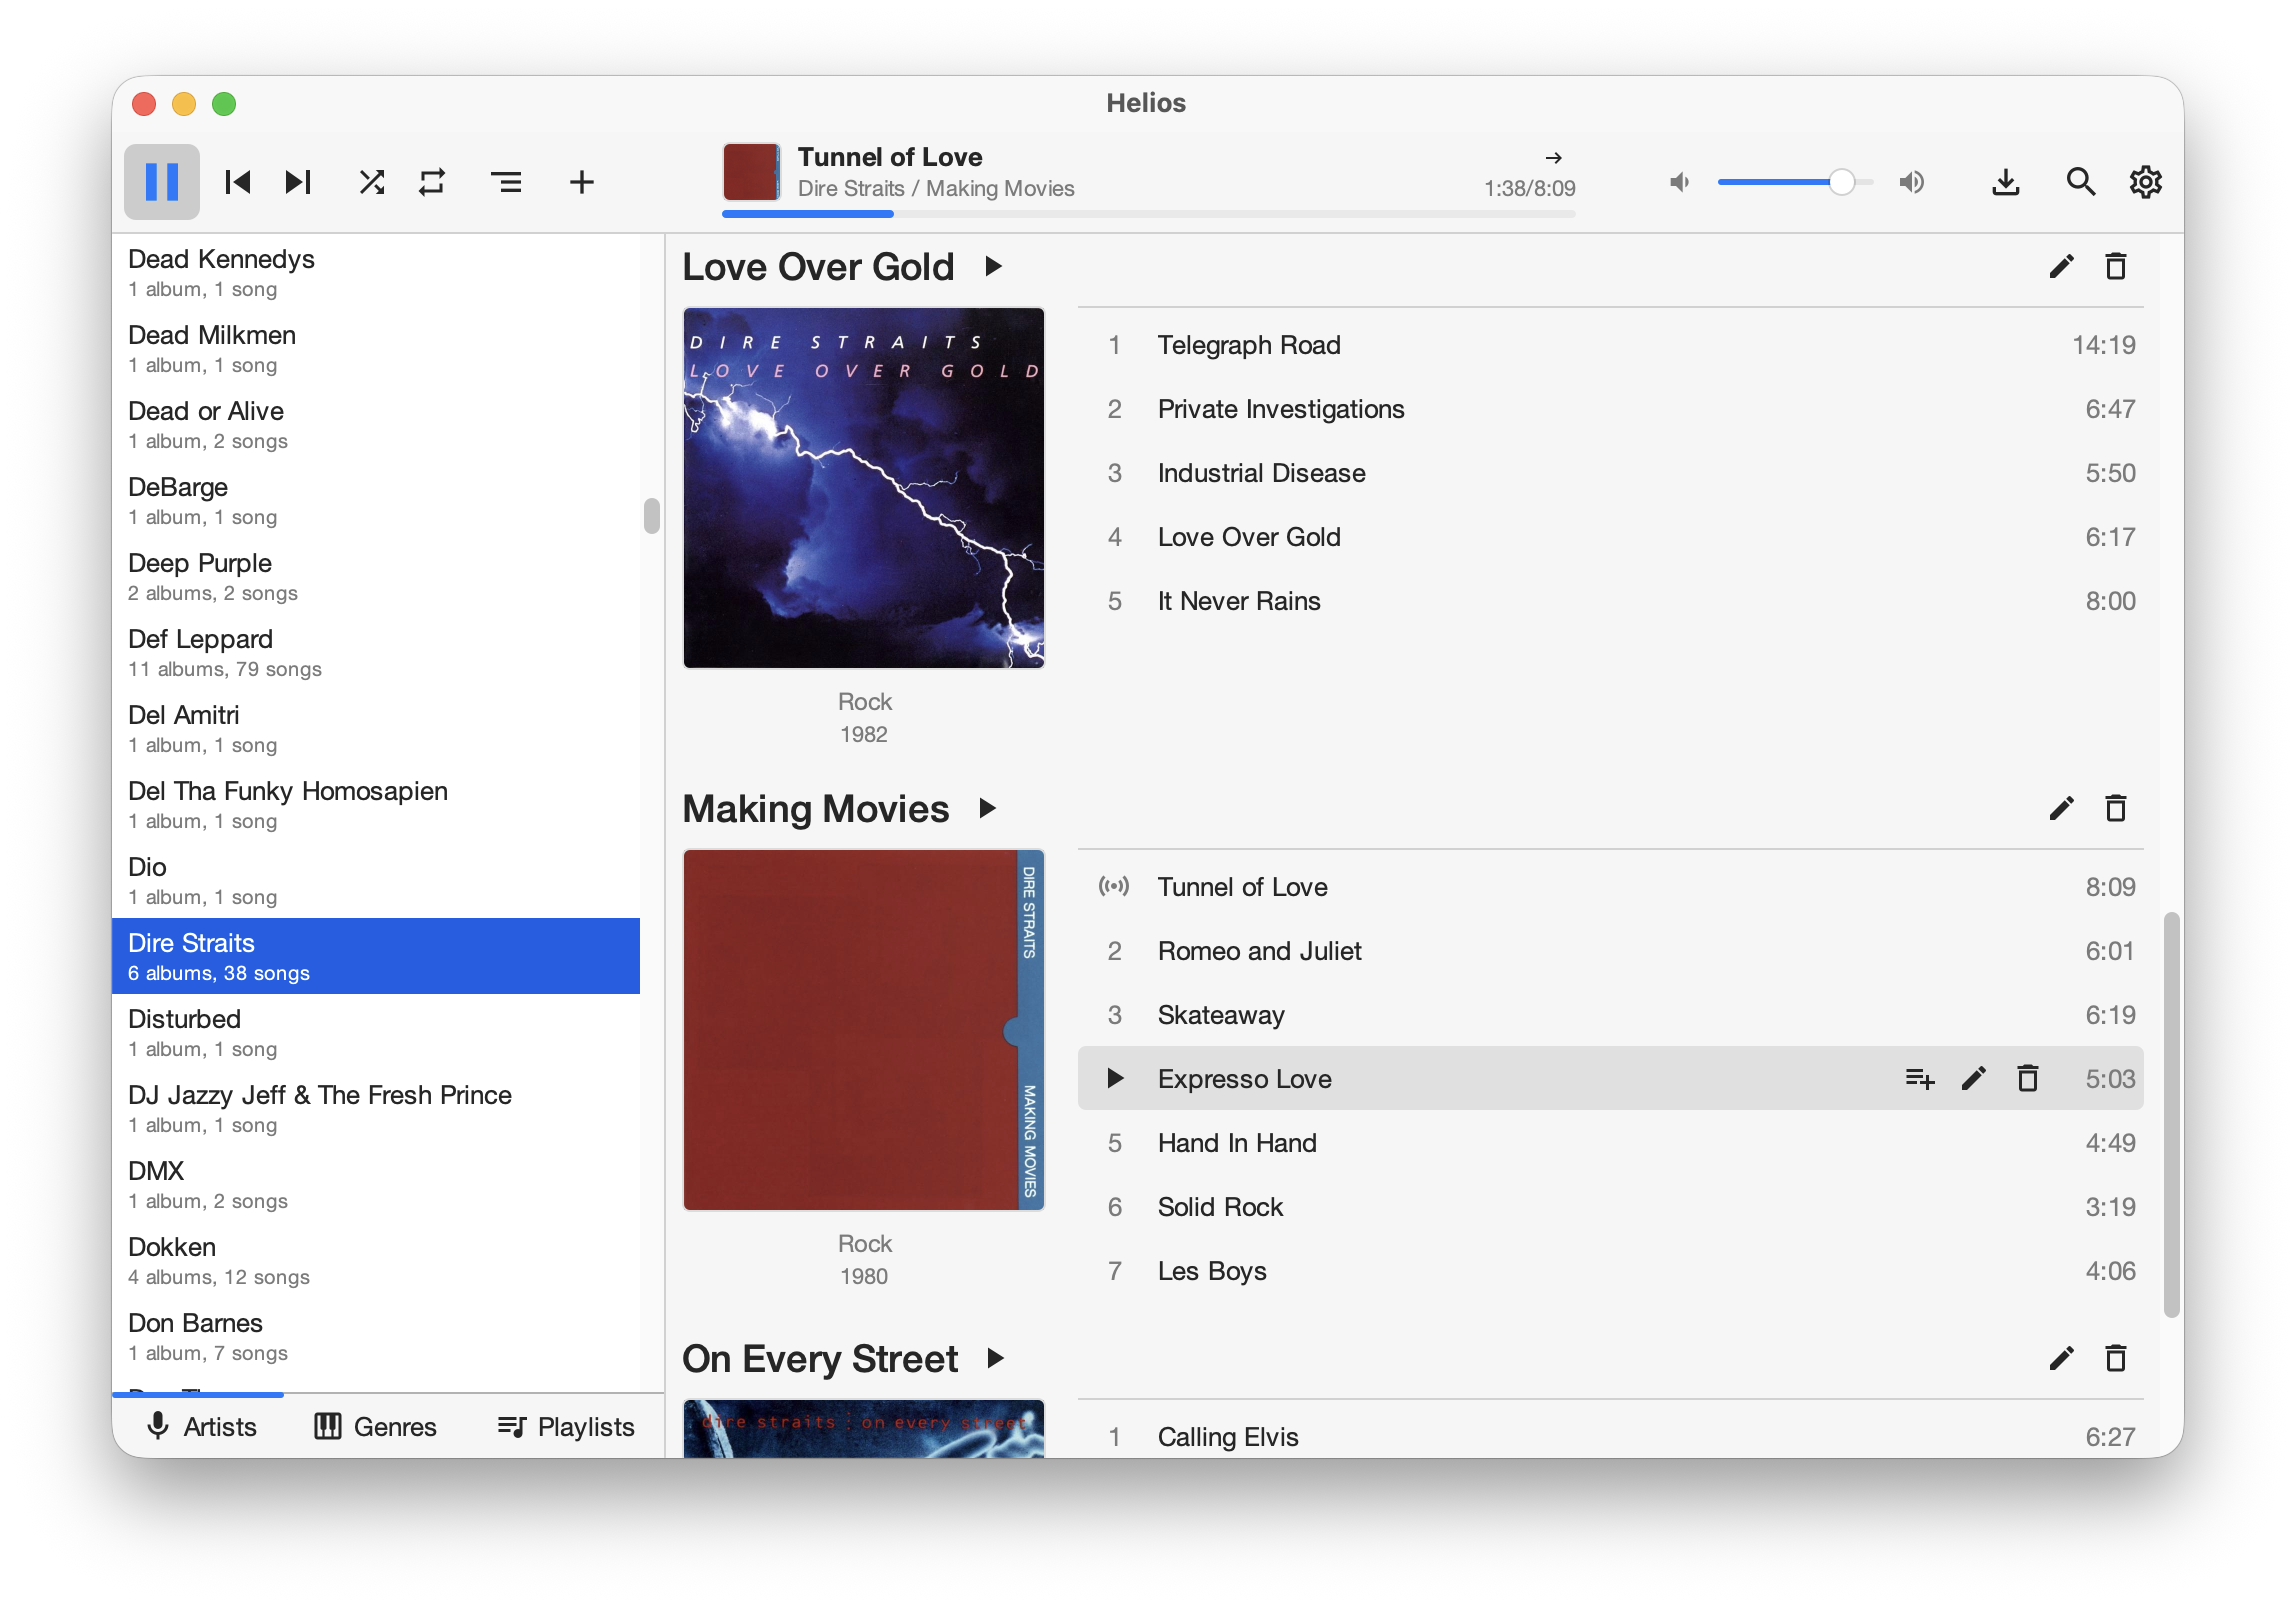
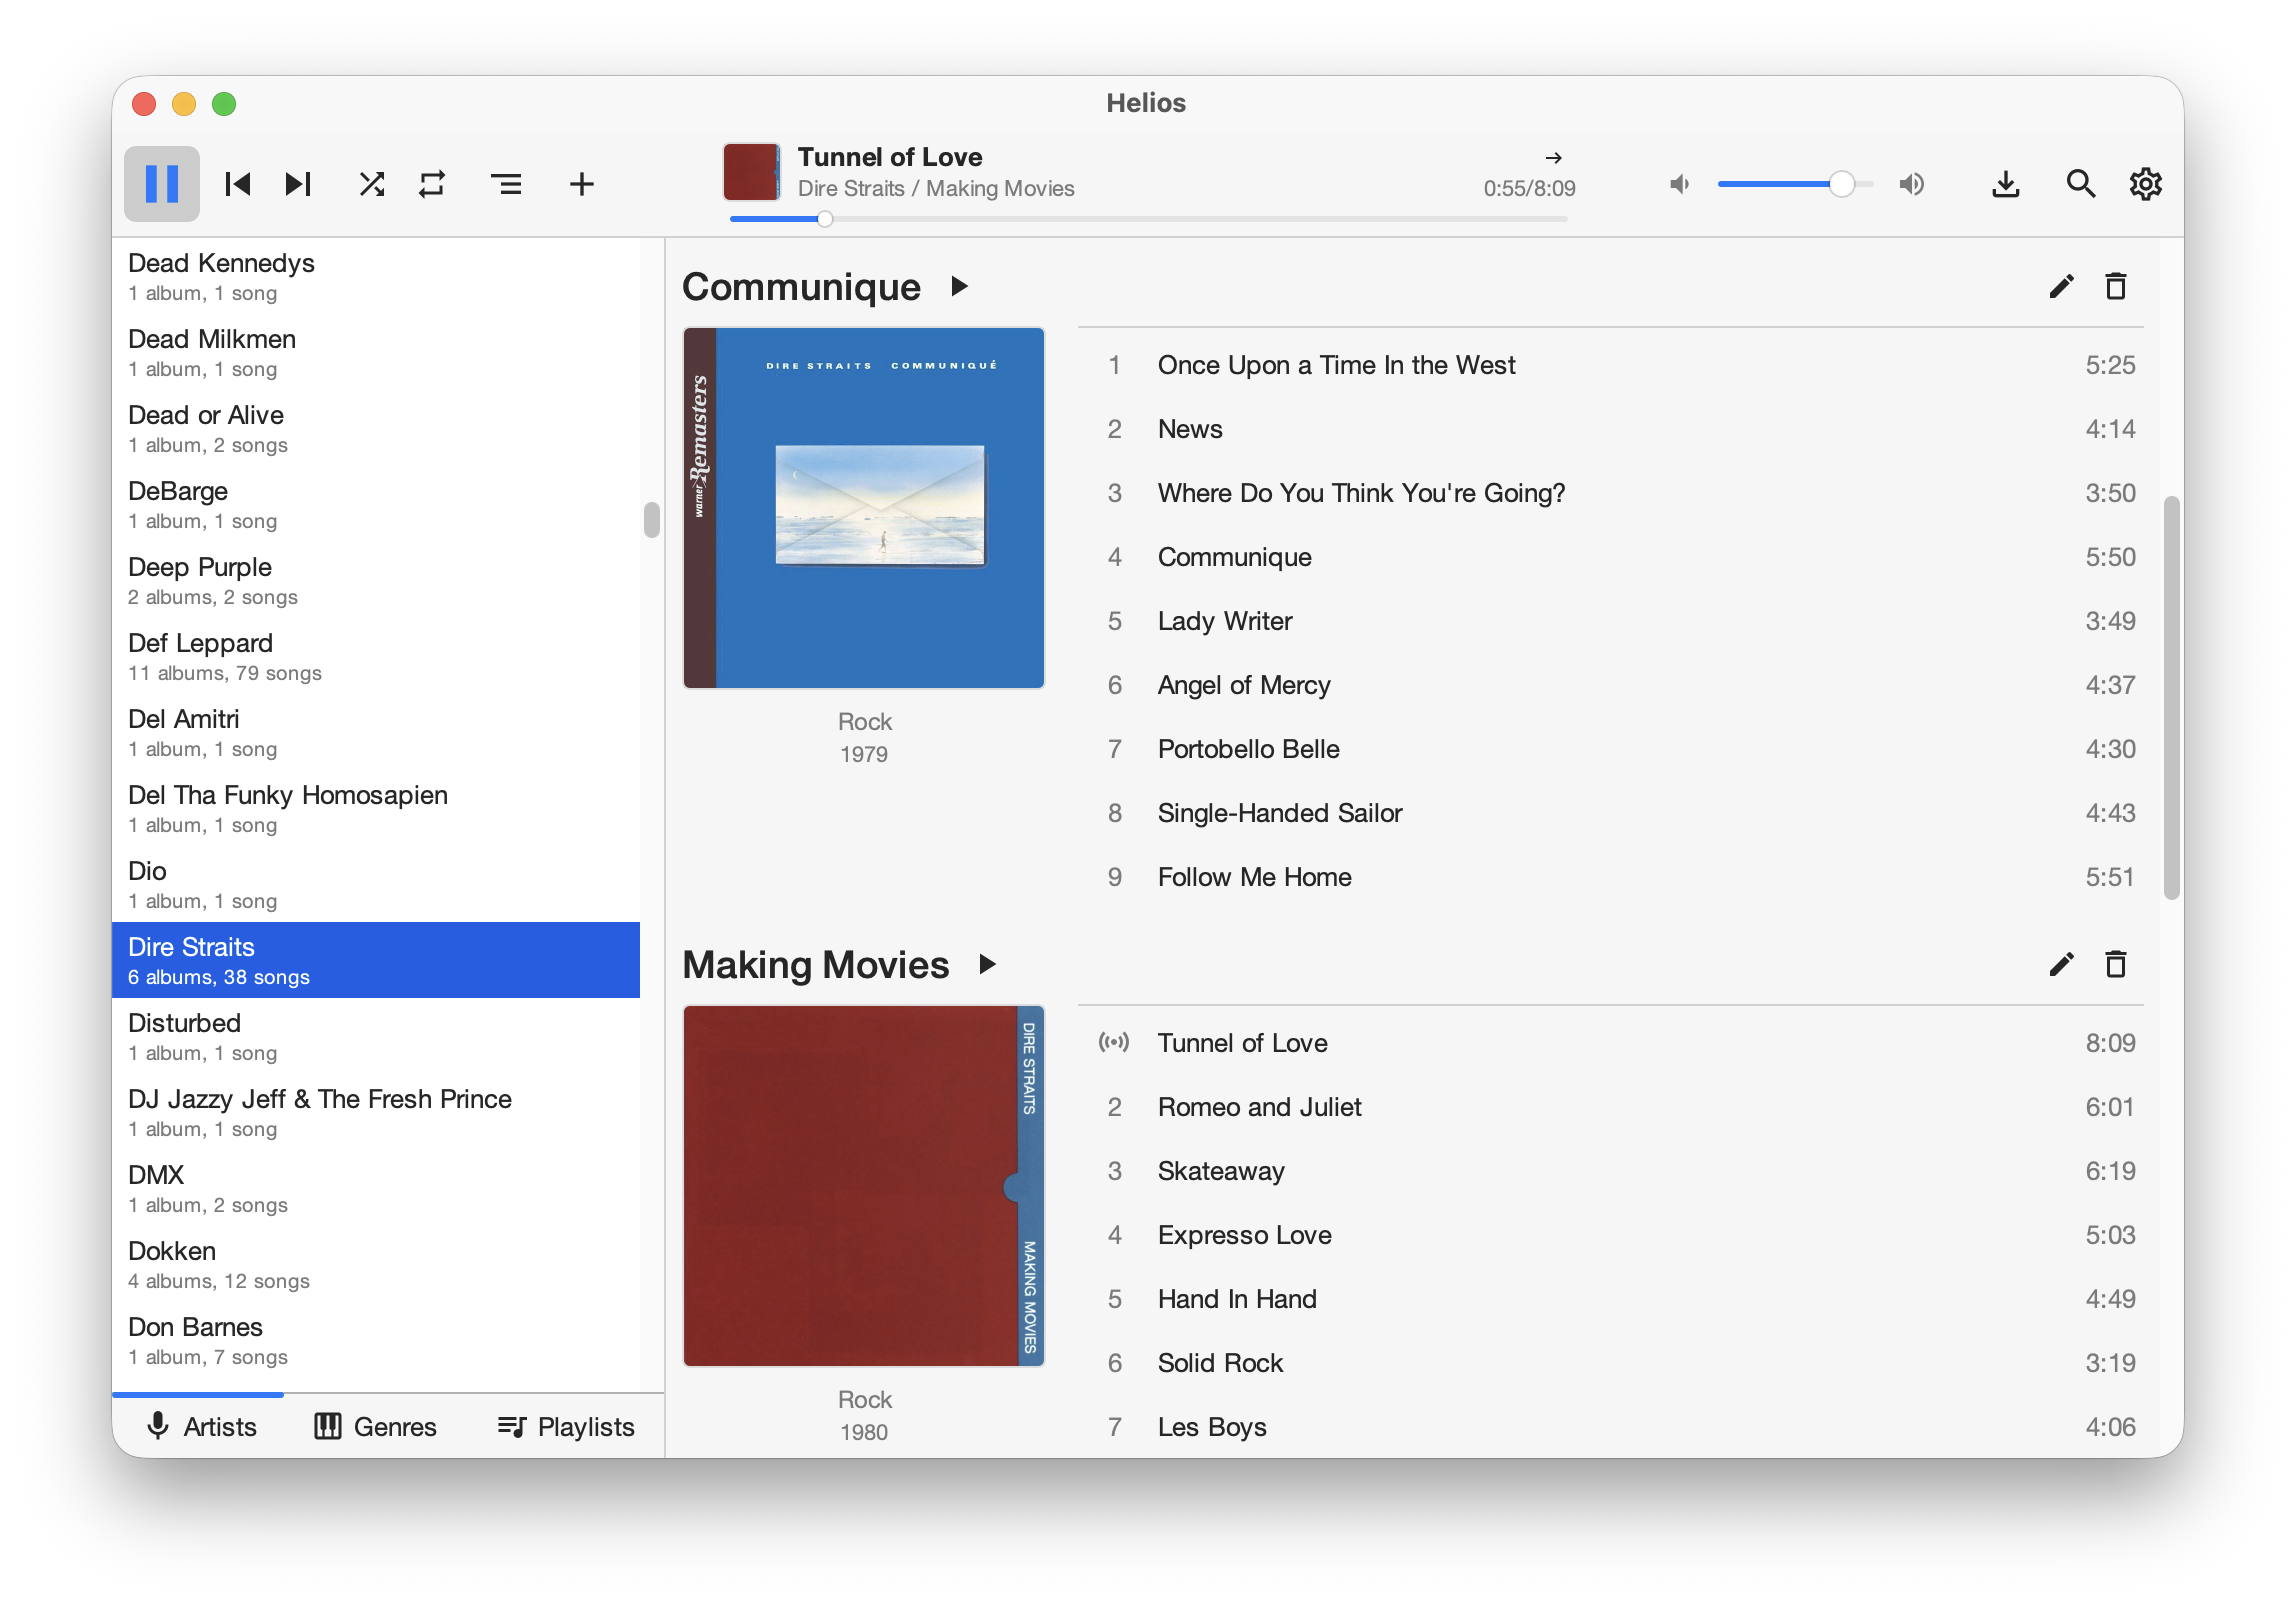
Update UI.

diff --git a/src/main/java/org/httprpc/helios/MainFrame.java b/src/main/java/org/httprpc/helios/MainFrame.java
@@ -514,13 +514,10 @@ public class MainFrame extends JFrame implements Runnable {
 
         goToSongButton.addActionListener(event -> showSong(queue.get(queueIndex)));
 
-        var thumbColor = UIManager.getColor("ProgressBar.foreground");
-        var thumbSize = UIManager.getInt("Slider.trackWidth") * 2;
+        var thumbSize = UIManager.getInt("Slider.trackWidth") * 3;
 
         positionSlider.putClientProperty(FlatClientProperties.STYLE, mapOf(
-            entry("thumbColor", thumbColor),
             entry("thumbSize", new Dimension(thumbSize, thumbSize)),
-            entry("thumbBorderWidth", 0),
             entry("focusWidth", 0)
         ));
 
